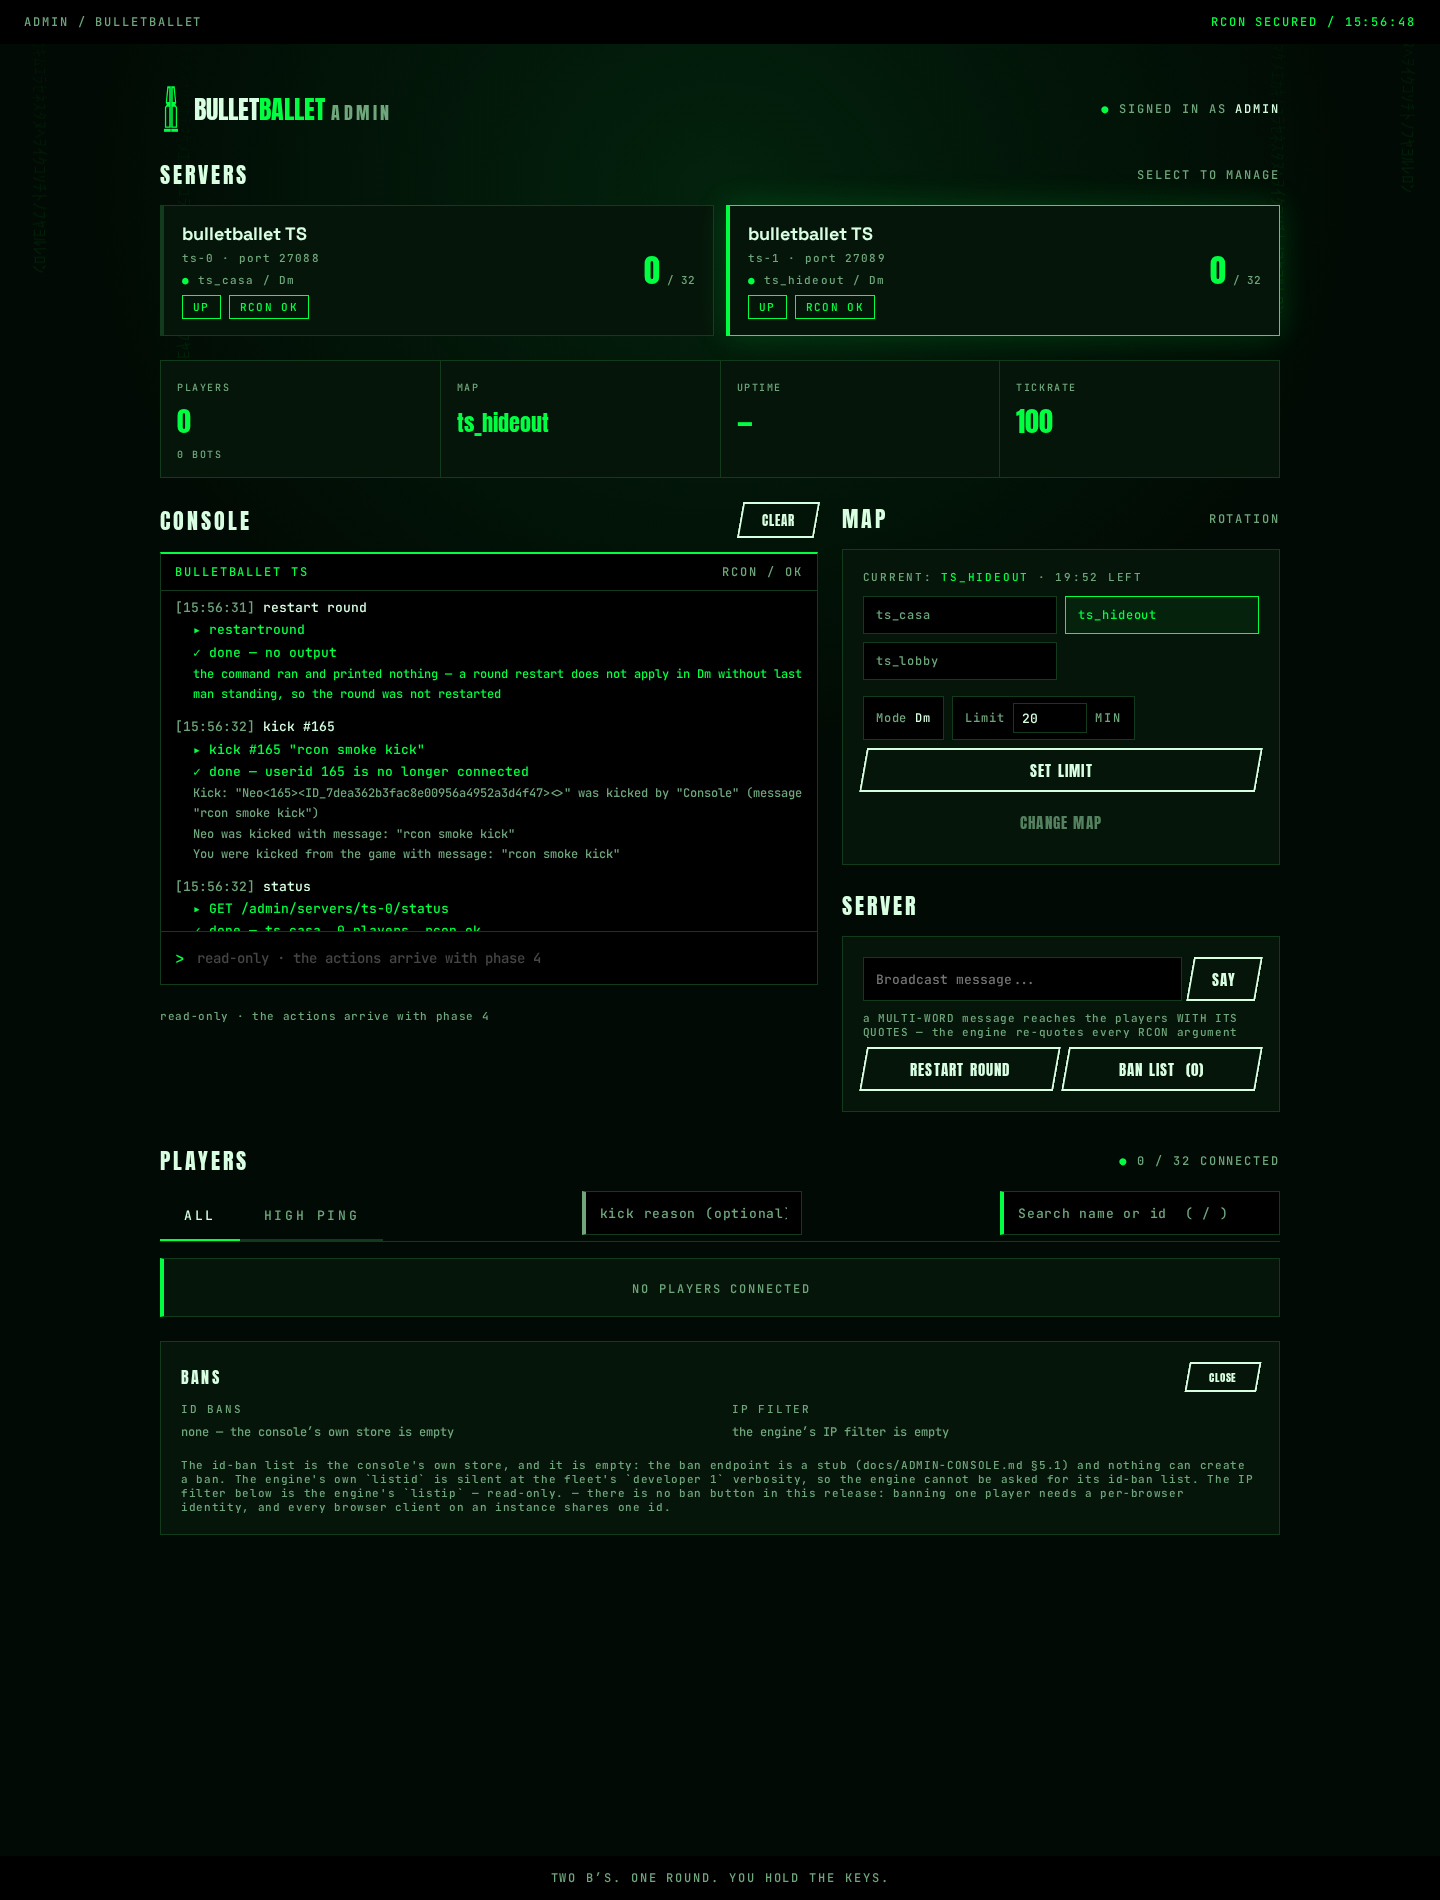
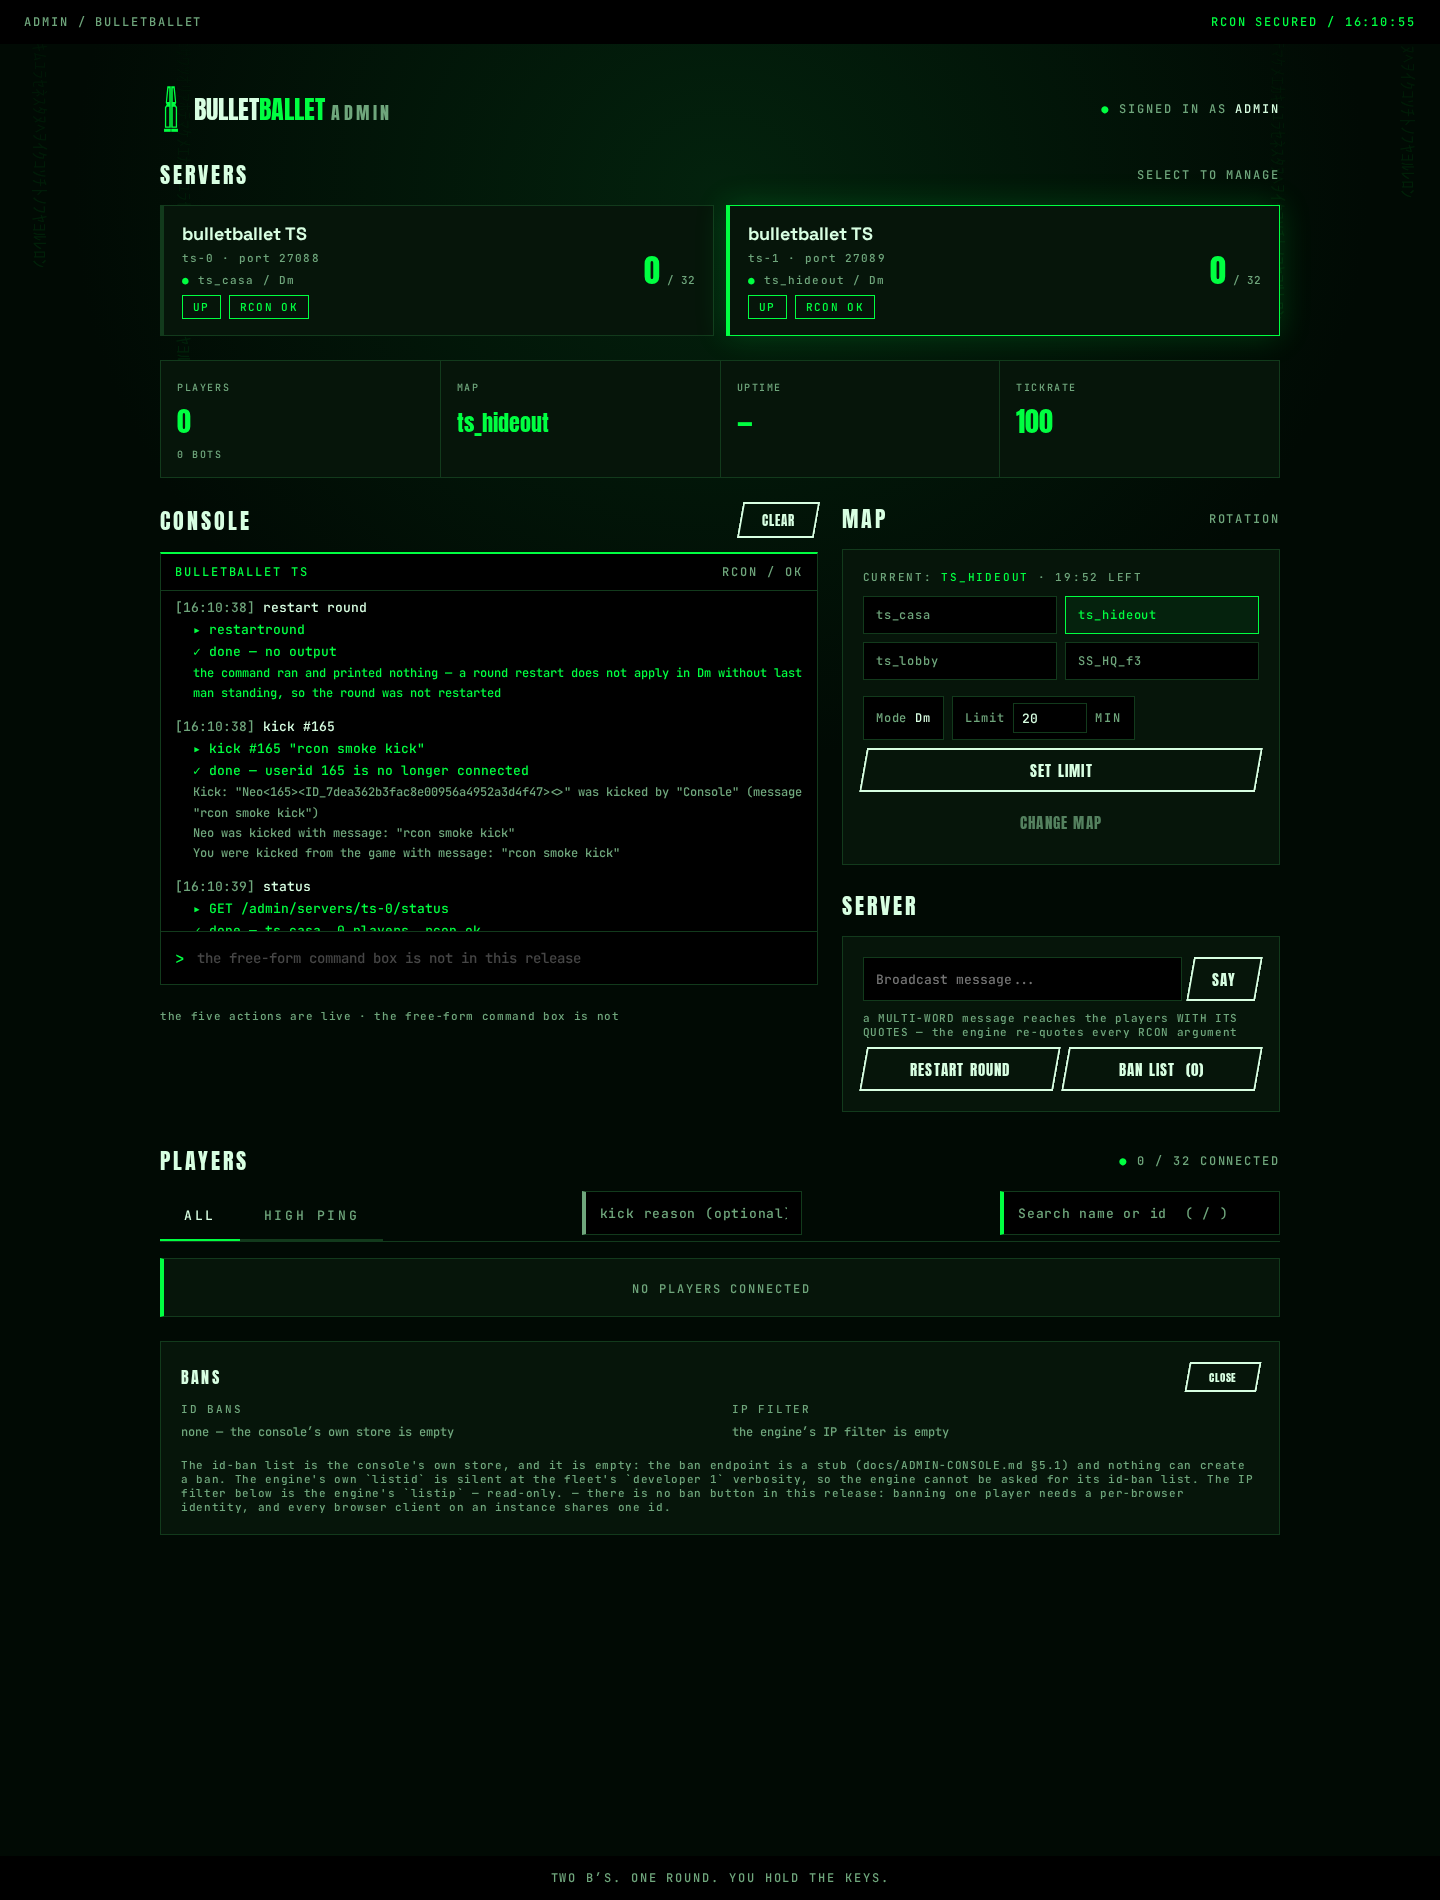
fix(admin): the console line must not say 'read-only' when it is not
Phase 4 turned the console from a viewer into a thing that can touch a
live server, and the line under the drawer still said 'read-only - the
actions arrive with phase 4'. It was my own line, and it was about to
become a lie in the one place an operator looks to find out what the
console can do.

It now says 'the five actions are live - the free-form command box is
not', and the command input's placeholder says the same. The input's
title says WHY the box is not there: over RCON, banid works, so a
free-form box would hand back the ban this console deliberately does
not have.

Changed region(s): [[0.1562, 0.4037, 0.375, 0.4658], [0.125, 0.3416, 0.3438, 0.3726]]

diff --git a/services/admin/public/index.html b/services/admin/public/index.html
@@ -93,9 +93,9 @@
 <div class="con card" style="padding:0">
 <div class="conbar"><span class="m g" id="conName">-</span><span class="m" id="conState">rcon / live</span></div>
 <div class="log" id="log" role="log" aria-live="polite"></div>
-<form class="cin" id="cform" autocomplete="off"><span>&gt;</span><input id="cmd" aria-label="Console command" placeholder="read-only &middot; the actions arrive with phase 4" spellcheck="false" disabled title="the actions arrive with phase 4"></form>
+<form class="cin" id="cform" autocomplete="off"><span>&gt;</span><input id="cmd" aria-label="Console command" placeholder="the free-form command box is not in this release" spellcheck="false" disabled title="the free-form command box is not in this release: over RCON, banid works, so a free-form box would hand back the ban this console deliberately does not have. It needs its own decision."></form>
 </div>
-<div class="hint">read-only &middot; the actions arrive with phase 4</div>
+<div class="hint">the five actions are live &middot; the free-form command box is not</div>
 
 </div>
 
